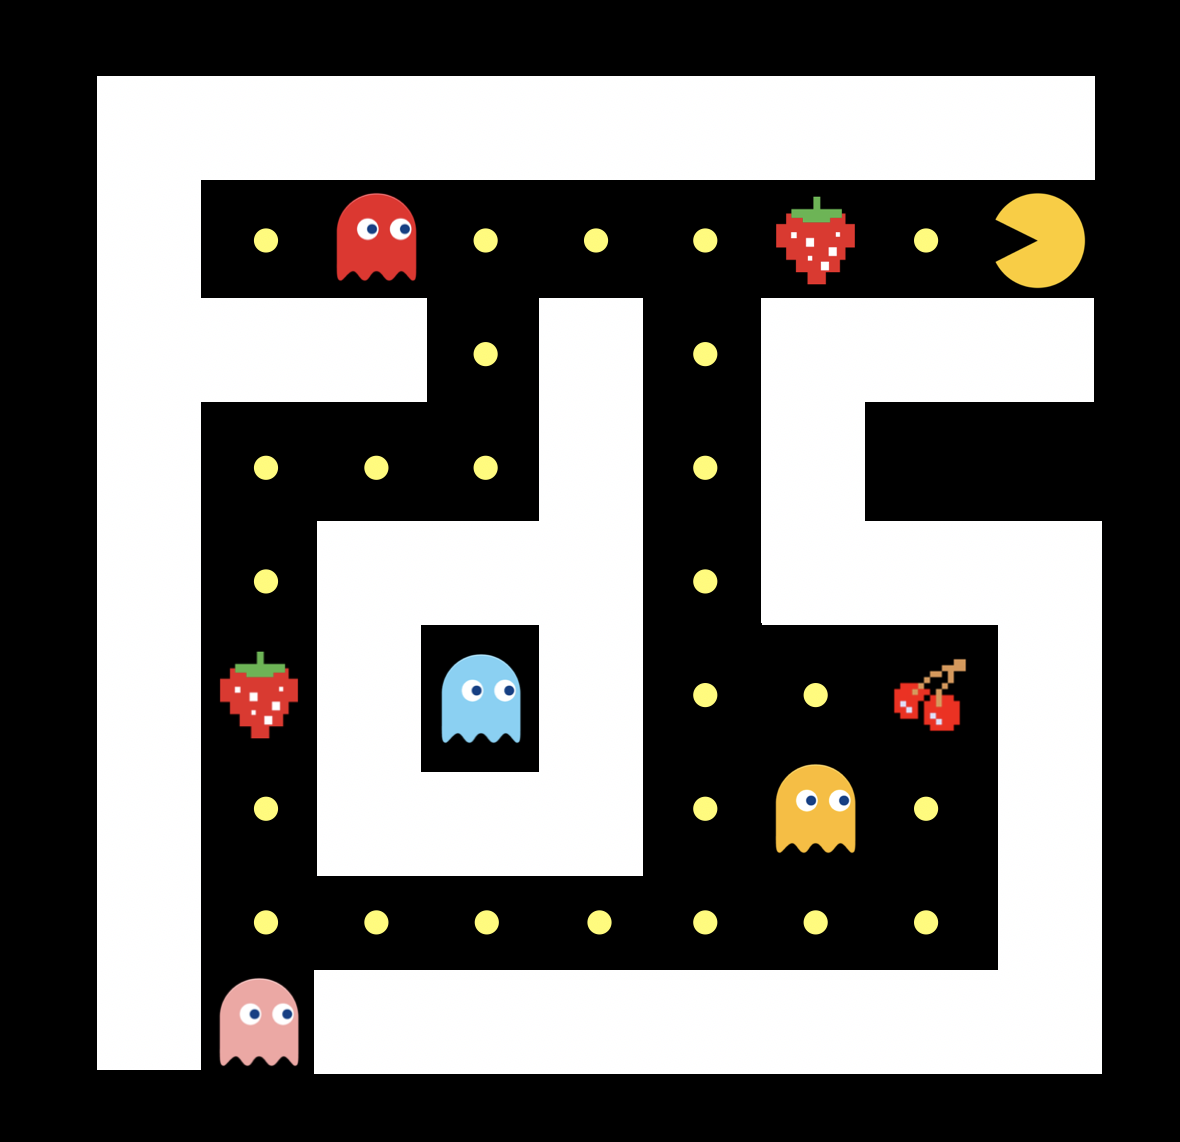
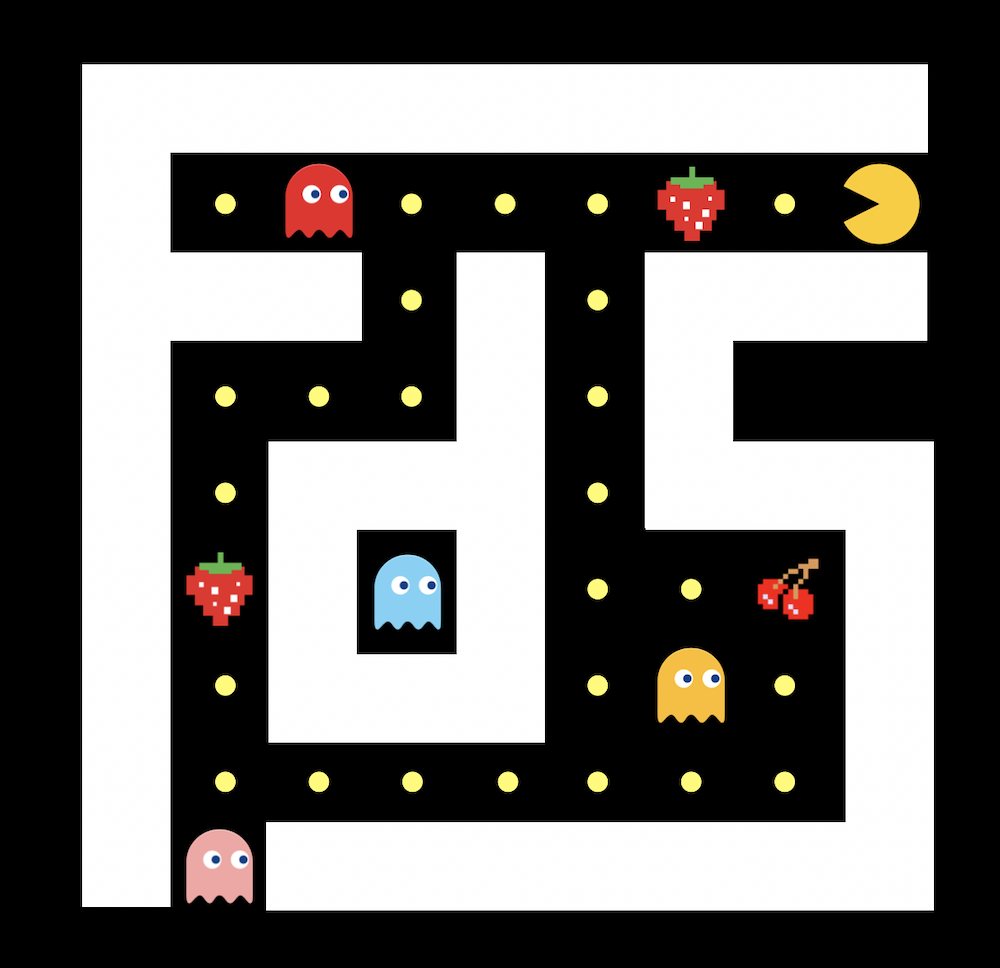
resize

diff --git a/README.md b/README.md
@@ -1,5 +1,5 @@
 ![alt text](pacman.png)
-![fds pacman](fds-pacman.png =250x)
+![fds pacman](fds-pacman.png)
 
 # Introduction
 Hello, and welcome to your take-home assignment for the Forward Deployed Solution Engineer role at C3! First, thank you for your time and energy spent in this process; we fully understand that you probably have a million other things to do, but this is an important screening step before moving into the advanced stages of interviews.
